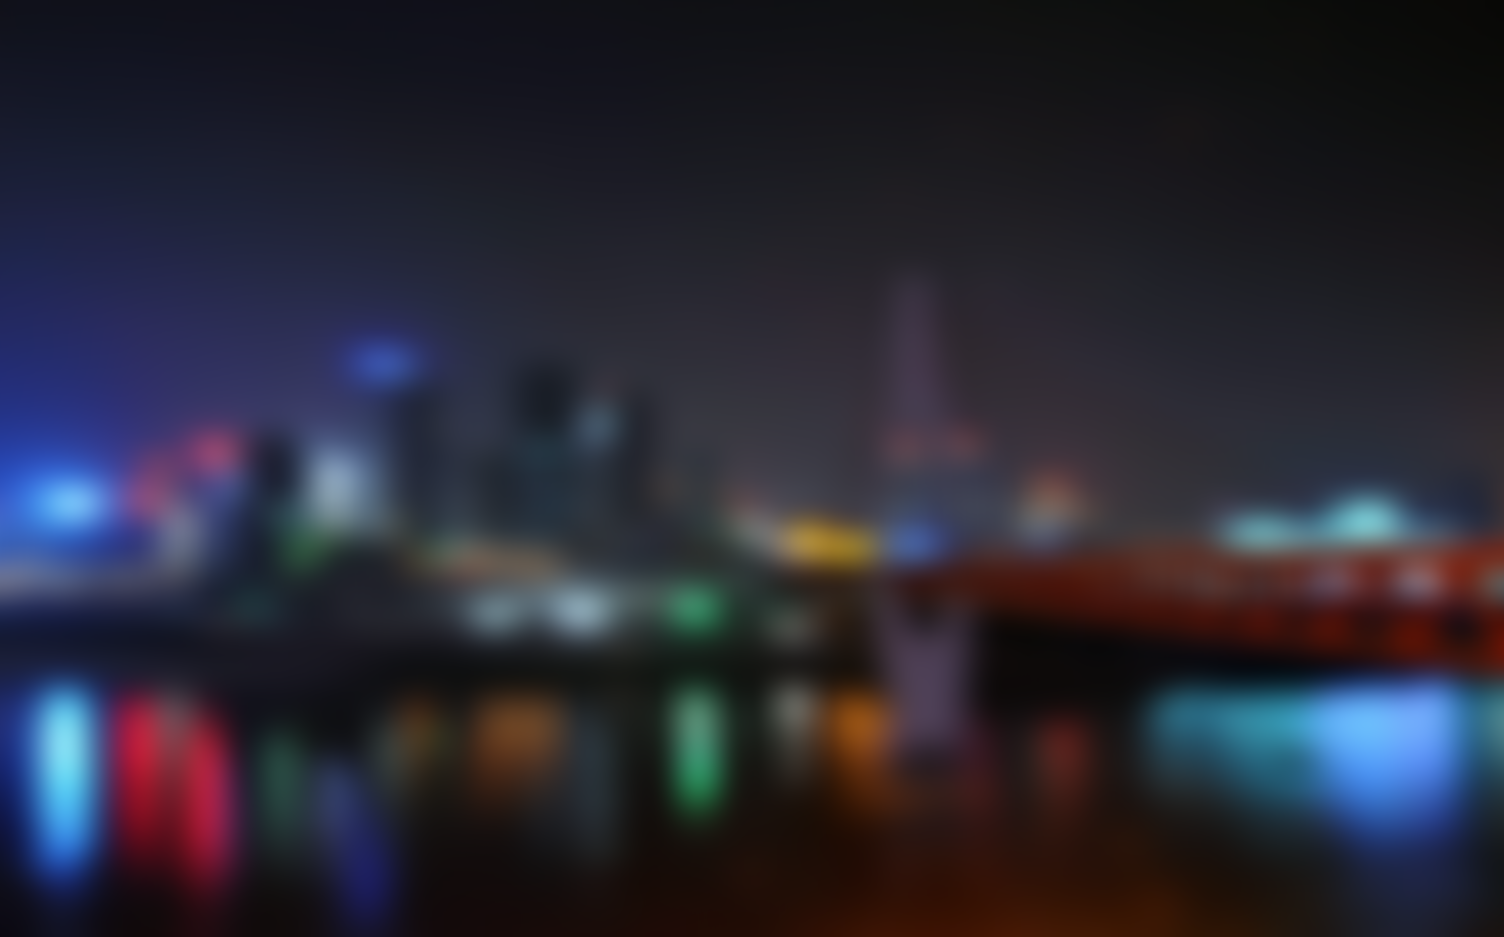
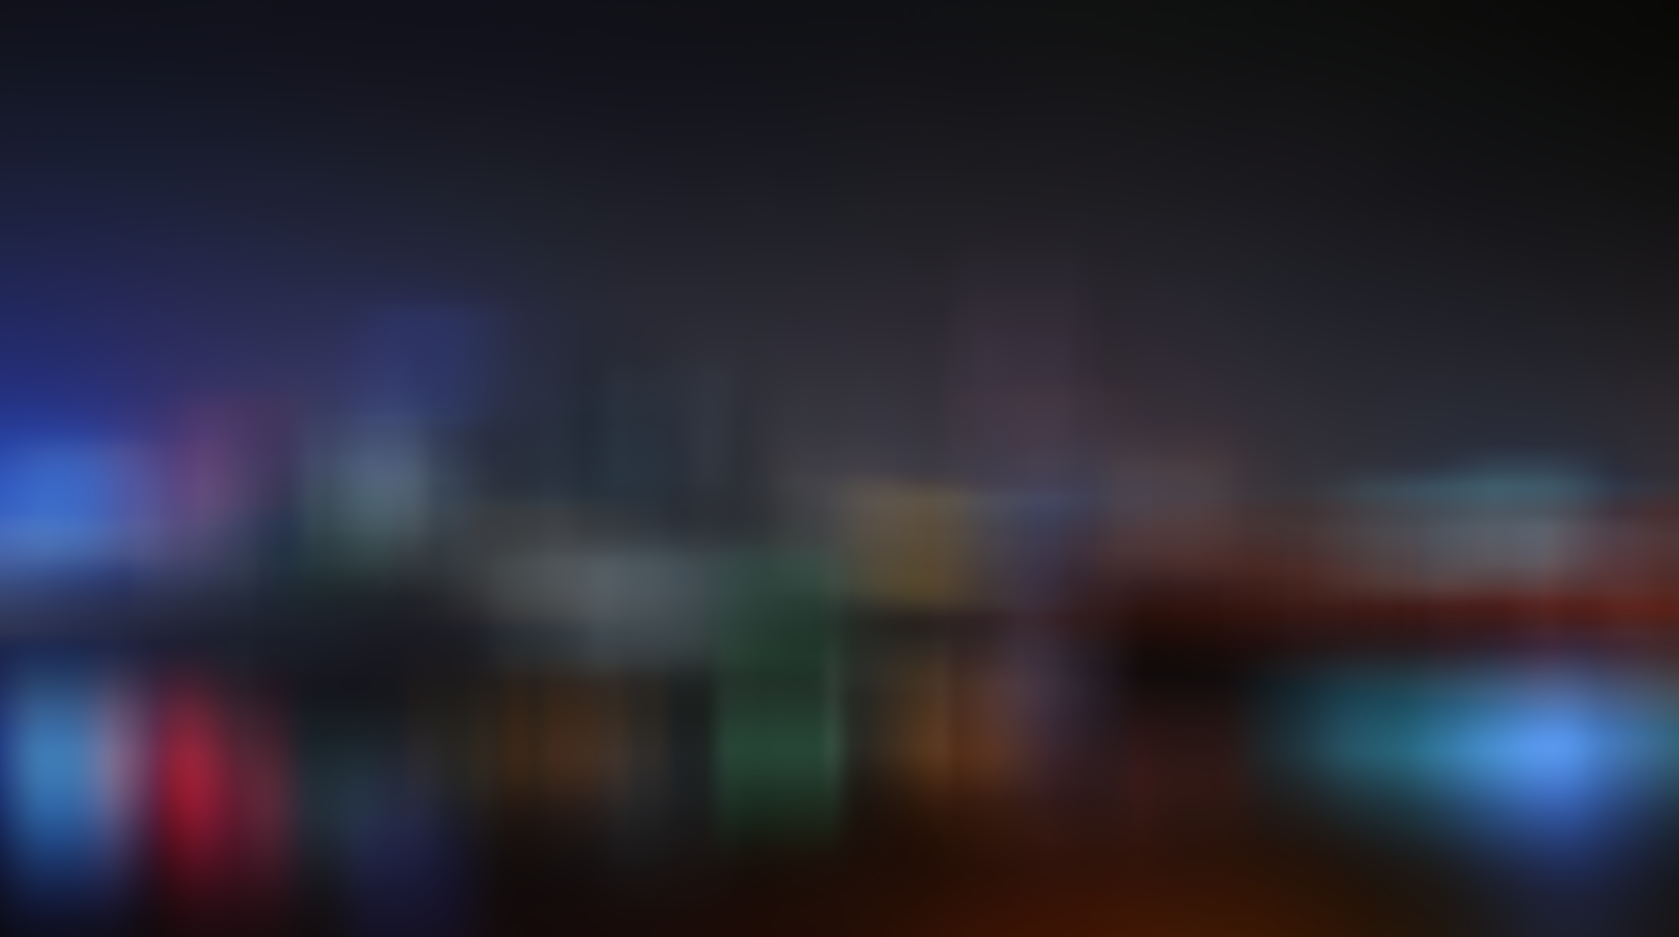
feat(boxblur): 盒式模糊完成

diff --git a/src/pieces/threejs/boxBlur/scene.js b/src/pieces/threejs/boxBlur/scene.js
@@ -1,0 +1,132 @@
+import {
+  WebGLRenderer, PerspectiveCamera, OrthographicCamera, Scene, Color, AxisHelper, Fog, Vector2, TextureLoader,
+  AmbientLight, DirectionalLight, SpotLight,
+  Object3D, BoxGeometry, SphereBufferGeometry, PlaneBufferGeometry, MeshPhongMaterial, MeshLambertMaterial, MeshBasicMaterial, Mesh
+} from '@/lib/three.module.js'
+import { EffectComposer } from '@/lib/postprocessing/EffectComposer'
+import { RenderPass } from '@/lib/postprocessing/RenderPass'
+import { ShaderPass } from '@/lib/postprocessing/ShaderPass'
+// import { DotScreenShader } from '@/lib/shaders/DotScreenShader'
+// import { RGBShiftShader } from '@/lib/shaders/RGBShiftShader'
+import { BoxBlurShader } from './index'
+
+export default class MainScene {
+  constructor({ container, params }) {
+    this.container = container
+    this.params = params
+
+    this.initScenes()
+    this.addSceneThings()
+    this.addComposer()
+    window.addEventListener('resize', this.onResize)
+
+    this.update()
+  }
+
+  onResize = this.onResizeFunc.bind(this)
+  onResizeFunc() {
+    const bound = this.container.getBoundingClientRect()
+    this.width = bound.width
+    this.height = bound.height
+
+    this.camera.aspect = bound.width / bound.height
+    this.camera.updateProjectionMatrix()
+
+    this.renderer.setSize(bound.width, bound.height)
+    this.composer.setSize(bound.width, bound.height)
+  }
+
+  initScenes() {
+    const bound = this.container.getBoundingClientRect()
+    this.width = bound.width
+    this.height = bound.height
+
+    this.renderer = new WebGLRenderer({
+      preserveDrawingBuffer: true
+    })
+    this.renderer.setPixelRatio(window.devicePixelRatio)
+    this.renderer.setSize(bound.width, bound.height)
+    this.renderer.setClearColor(new Color(0xFFFFFF))
+    this.container.appendChild(this.renderer.domElement)
+
+    this.scene = new Scene()
+    this.scene.fog = new Fog(0x000000, 1, 1000)
+
+    const aspect = this.width / this.height
+    this.camera = new OrthographicCamera(-aspect, aspect, 1, -1, 0, 1)
+    // this.camera.position.set(0, 20, 0)
+    // this.camera.lookAt(this.scene.position)
+
+    this.scene.add(new AmbientLight(0x222222))
+
+    const light = new DirectionalLight(0xffffff)
+    light.position.set(10, 10, 10)
+    this.scene.add(light)
+
+    // const axes = new AxisHelper(20)
+    // this.scene.add(axes)
+  }
+
+  //
+  refresh(container) {
+    this.container.removeChild(this.renderer.domElement)
+    this.container = container
+    this.container.appendChild(this.renderer.domElement)
+  }
+
+  changeParams(key, value) {
+    if (key === 'image') {
+      this.material.map = new TextureLoader().load(value)
+    } else {
+      this.boxBlurHorizontal.uniforms[key].value = value
+      this.boxBlurVertical.uniforms[key].value = value
+    }
+  }
+
+  addSceneThings() {
+    this.main = new Object3D()
+    this.scene.add(this.main)
+
+    const texture = new TextureLoader().load(this.params.image)
+    const geometry = new PlaneBufferGeometry(2 * this.width / this.height, 2)
+    this.material = new MeshBasicMaterial({
+      map: texture
+    })
+
+    const mesh = new Mesh(geometry, this.material)
+    // mesh.rotation.x = Math.PI * -0.5
+
+    this.main.add(mesh)
+  }
+
+  addComposer() {
+    // 将画布内的内容绘制到RenderPass这个VBO里面，然后传递个下一个后处理
+    this.composer = new EffectComposer(this.renderer)
+    this.composer.addPass(new RenderPass(this.scene, this.camera))
+
+    this.boxBlurHorizontal = new ShaderPass(BoxBlurShader)
+    this.boxBlurHorizontal.uniforms.tSize.value = new Vector2(this.width, this.height)
+    this.boxBlurHorizontal.uniforms.direction.value = new Vector2(1.0, 0.0)
+    this.boxBlurHorizontal.uniforms.kernelRadius.value = this.params.kernelRadius
+    this.composer.addPass(this.boxBlurHorizontal)
+
+    this.boxBlurVertical = new ShaderPass(BoxBlurShader)
+    this.boxBlurVertical.uniforms.tSize.value = new Vector2(this.width, this.height)
+    this.boxBlurVertical.uniforms.direction.value = new Vector2(0.0, 1.0)
+    this.boxBlurVertical.uniforms.kernelRadius.value = this.params.kernelRadius
+    this.composer.addPass(this.boxBlurVertical)
+  }
+
+  update = this.updateFunc.bind(this)
+  updateFunc() {
+    // this.renderer.render(this.scene, this.camera)
+    this.composer.render()
+
+    this._tick = requestAnimationFrame(this.update)
+  }
+
+  destroy() {
+    cancelAnimationFrame(this._tick)
+    window.removeEventListener('resize', this.onResize)
+  }
+}

diff --git a/src/pieces/threejs/boxBlur/entry.vue b/src/pieces/threejs/boxBlur/entry.vue
@@ -1,64 +1,55 @@
 <template>
   <div class="tracker-piece-entry">
-    <!-- 这里开始后续都可以清理 -->
-    <div ref="title" class="tracker-piece-title">
-      boxBlur方框模糊
-    </div>
-    <div ref="content" class="tracker-piece-container">
-      <div class="start">
-        盒式滤波器作为卷积核的模糊滤镜
-      </div>
-    </div>
+    <div ref="container" class="container" />
   </div>
 </template>
 
 <script>
+import props from './config'
+import Scene from './scene.js'
+
 export default {
   name: 'BoxBlur',
-  props: {},
+  props,
   data() {
     return {
+      scene: null
+    }
+  },
+  watch: {
+    kernelRadius(val) {
+      if (this.scene) this.scene.changeParams('kernelRadius', val)
+    },
+    image(val) {
+      if (this.scene) this.scene.changeParams('image', val)
     }
   },
   mounted() {
+    this.$emit('config', props)
   },
   beforeDestroy() {
+    if (this.scene) {
+      this.scene.destroy()
+      this.scene = null
+    }
   },
   methods: {
     onEnterEnd() {
       // 完全进入且动画结束的钩子
+      this.scene = new Scene({ container: this.$refs.container, params: { image: this.image, kernelRadius: this.kernelRadius }})
     }
   }
 }
 </script>
 
-<style lang="scss">
+<style lang="scss" scoped>
   .tracker-piece-entry{
     position: relative;
     width: 100%;
     height: 100%;
-    /* 这里开始后续都可以清理 */
-    padding: 56px 8px 8px 8px;
-    .tracker-piece-title{
-      position: absolute;
-      top: 8px;
-      left: 16px;
-      height: 40px;
-      line-height: 40px;
-      color: #fff;
-      font-size: 24px;
-      text-shadow: 0px 0px 2px rgba(0, 0, 0, 0.5);
-    }
-    .tracker-piece-container{
-      position: relative;
+    .container{
       width: 100%;
       height: 100%;
-      left: 0px;
-      background-color: rgba(255, 255, 255, 0.8);
-      padding: 16px;
-      .start{
-        font-size: 20px;
-      }
     }
   }
 </style>

diff --git a/src/pieces/threejs/boxBlur/index.js b/src/pieces/threejs/boxBlur/index.js
@@ -1,0 +1,59 @@
+import {
+  Vector2
+} from '@/lib/three.module.js'
+
+var BoxBlurShader = {
+  uniforms: {
+    tDiffuse: { value: null },
+    tSize: { value: new Vector2(1.0, 1.0) },
+    direction: { value: new Vector2(1.0, 0.0) },
+    kernelRadius: { value: 2 }
+  },
+  vertexShader: `
+    varying vec2 vUv;
+
+    void main() {
+    	vUv = uv;
+    	gl_Position = projectionMatrix * modelViewMatrix * vec4( position, 1.0 );
+    }
+  `,
+  fragmentShader: `
+    #define inverse_sqrt_2p 0.39894228
+    #define f2 2.0
+    #define f1 1.0
+    #define f0 0.0
+    #define i1 1
+
+    uniform sampler2D tDiffuse;
+    uniform vec2 tSize;
+    uniform vec2 direction;
+    uniform int kernelRadius;
+
+    varying vec2 vUv;
+    
+    void main() {
+      if (kernelRadius == 0) {
+        gl_FragColor = texture2D( tDiffuse, vUv).rgba;
+      } else {
+        vec2 unitSize = f1 / tSize;
+        float weightUnit = f1 / float(kernelRadius);
+        float weightSum = weightUnit;
+        vec3 diffuseSum = texture2D( tDiffuse, vUv).rgb * weightSum;
+  
+        // 这里其实是从-(kernelRadius - 1) kernelRadius - 1
+        for (int i = i1; i < kernelRadius; i++ ) {
+          float x = float(i);
+          vec2 offset = direction * x * unitSize;
+          vec3 sampler1 = texture2D(tDiffuse, vUv + offset).rgb;
+          vec3 sampler2 = texture2D(tDiffuse, vUv - offset).rgb;
+          diffuseSum += (sampler1 + sampler2) * weightUnit;
+          weightSum += weightUnit * f2;
+        }
+  
+        gl_FragColor = vec4(diffuseSum / weightSum, 1.0);
+      }
+    }
+  `
+}
+
+export { BoxBlurShader }

diff --git a/src/pieces/threejs/gaussianBlur/entry.vue b/src/pieces/threejs/gaussianBlur/entry.vue
@@ -18,13 +18,13 @@ export default {
   },
   watch: {
     kernelRadius(val) {
-      this.scene.changeParams('kernelRadius', val)
+      if (this.scene) this.scene.changeParams('kernelRadius', val)
     },
     sigma(val) {
-      this.scene.changeParams('sigma', val)
+      if (this.scene) this.scene.changeParams('sigma', val)
     },
     image(val) {
-      this.scene.changeParams('image', val)
+      if (this.scene) this.scene.changeParams('image', val)
     }
   },
   mounted() {
@@ -48,7 +48,7 @@ export default {
 }
 </script>
 
-<style lang="scss">
+<style lang="scss" scoped>
   .tracker-piece-entry{
     position: relative;
     width: 100%;

diff --git a/src/pieces/threejs/boxBlur/config.js b/src/pieces/threejs/boxBlur/config.js
@@ -39,16 +39,5 @@ export default {
       max: 100,
       step: 1
     }
-  },
-  sigma: {
-    type: [String, Number], // vue-material的表单有问题，所以传来的数字可能是字符串类型
-    default: 1,
-    form: {
-      des: '模糊发散度',
-      type: 'number',
-      min: 1,
-      max: 100,
-      step: 1
-    }
   }
 }

diff --git a/server/app/template/entry.vue b/server/app/template/entry.vue
@@ -32,7 +32,7 @@ export default {
 }
 </script>
 
-<style lang="scss">
+<style lang="scss" scoped>
   .tracker-piece-entry{
     position: relative;
     width: 100%;
